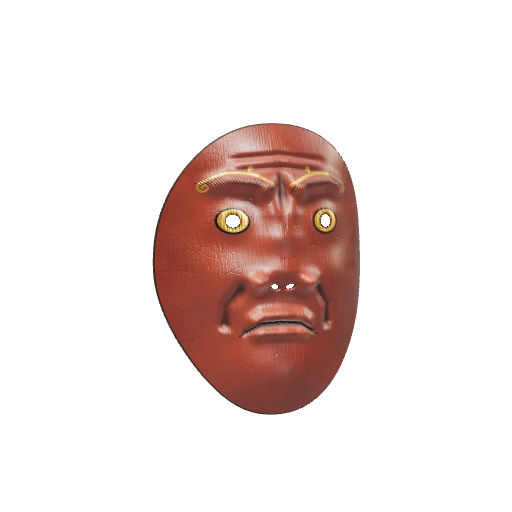
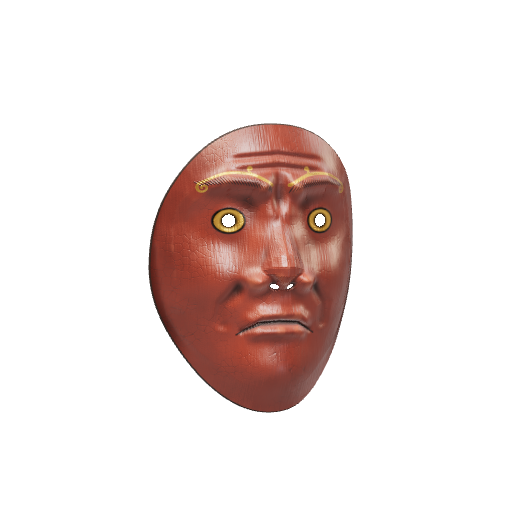
Masks hug the face like a lens; cue under the name panel
- Every mask is carved from the wearer's face surface (MindAR's canonical
  face, smoothed) 3.5 mm out, and never dips inside it, so it sits 2-6 mm
  off the skin instead of floating up to 2.4 cm in front.
- In AR each vertex is skinned to its nearest live landmarks (eyelids
  excluded), so the mask takes your face shape and opens with your jaw.
- The mouth/photo cue sits directly under the name panel.
- tools/fit-check.html shows and measures the fit.

Changed region(s): [[0.3438, 0.25, 0.7188, 0.8125], [0.2812, 0.3438, 0.4375, 0.7812]]

diff --git a/js/face-model.js b/js/face-model.js
@@ -1,0 +1,6 @@
+// The canonical face model MindAR fits to every face (MediaPipe's metric face, in cm),
+// copied from mind-ar-js 1.2.5 src/face-target/face-geometry/face-data.js (MIT; the
+// model itself is MediaPipe's, Apache-2.0): 468 landmark positions and the triangles.
+const positions=[[0,-3.406404,5.979507],[0,-1.126865,7.475604],[0,-2.089024,6.058267],[-0.463928,0.955357,6.633583],[0,-0.46317,7.58658],[0,0.365669,7.24287],[0,2.473255,5.788627],[-4.253081,2.577646,3.279702],[0,4.019042,5.284764],[0,4.885979,5.385258],[0,8.261778,4.481535],[0,-3.706811,5.864924],[0,-3.918301,5.56943],[0,-3.994436,5.219482],[0,-4.5424,5.404754],[0,-4.745577,5.529457],[0,-5.019567,5.601448],[0,-5.365123,5.535441],[0,-6.149624,5.071372],[0,-1.501095,7.112196],[-0.416106,-1.466449,6.447657],[-7.08796,5.434801,0.09962],[-2.628639,2.035898,3.848121],[-3.198363,1.985815,3.796952],[-3.775151,2.039402,3.646194],[-4.465819,2.42295,3.155168],[-2.164289,2.189867,3.851822],[-3.208229,3.223926,4.115822],[-2.673803,3.205337,4.092203],[-3.745193,3.165286,3.972409],[-4.161018,3.059069,3.719554],[-5.062006,1.934418,2.776093],[-2.266659,-7.425768,4.389812],[-4.445859,2.663991,3.173422],[-7.21453,2.263009,0.07315],[-5.799793,2.349546,2.204059],[-2.844939,-0.720868,4.43313],[-0.711452,-3.329355,5.877044],[-0.606033,-3.924562,5.444923],[-1.431615,-3.500953,5.496189],[-1.91491,-3.803146,5.02893],[-1.131043,-3.973937,5.189648],[-1.563548,-4.082763,4.842263],[-2.650112,-5.003649,4.188483],[-0.427049,-1.094134,7.360529],[-0.496396,-0.475659,7.440358],[-5.253307,3.881582,3.363159],[-1.718698,0.974609,4.558359],[-1.608635,-0.942516,5.814193],[-1.651267,-0.610868,5.581319],[-4.765501,-0.701554,3.534632],[-0.478306,0.295766,7.101013],[-3.734964,4.50823,4.550454],[-4.588603,4.302037,4.048484],[-6.279331,6.615427,1.42585],[-1.220941,4.142165,5.106035],[-2.193489,3.100317,4.000575],[-3.102642,-4.352984,4.095905],[-6.719682,-4.788645,-1.745401],[-1.193824,-1.306795,5.737747],[-0.729766,-1.593712,5.833208],[-2.456206,-4.342621,4.283884],[-2.204823,-4.304508,4.162499],[-4.985894,4.802461,3.751977],[-1.592294,-1.257709,5.456949],[-2.644548,4.524654,4.921559],[-2.760292,5.100971,5.01599],[-3.523964,8.005976,3.729163],[-5.599763,5.71547,2.724259],[-3.063932,6.566144,4.529981],[-5.720968,4.254584,2.830852],[-6.374393,4.78559,1.591691],[-0.672728,-3.688016,5.737804],[-1.26256,-3.787691,5.417779],[-1.732553,-3.952767,5.000579],[-1.043625,-1.464973,5.662455],[-2.321234,-4.329069,4.258156],[-2.056846,-4.477671,4.520883],[-2.153084,-4.276322,4.038093],[-0.946874,-1.035249,6.512274],[-1.469132,-4.036351,4.604908],[-1.02434,-3.989851,4.926693],[-0.533422,-3.993222,5.138202],[-0.76972,-6.095394,4.985883],[-0.699606,-5.29185,5.448304],[-0.669687,-4.94977,5.509612],[-0.630947,-4.695101,5.449371],[-0.583218,-4.517982,5.339869],[-1.53717,-4.423206,4.74547],[-1.6156,-4.475942,4.813632],[-1.729053,-4.61868,4.854463],[-1.838624,-4.828746,4.823737],[-2.36825,-3.106237,4.868096],[-7.542244,-1.049282,-2.431321],[0,-1.724003,6.60139],[-1.826614,-4.399531,4.399021],[-1.929558,-4.411831,4.497052],[-0.597442,-2.013686,5.866456],[-1.405627,-1.714196,5.241087],[-0.662449,-1.819321,5.863759],[-2.34234,0.572222,4.294303],[-3.327324,0.104863,4.11386],[-1.726175,-0.919165,5.273355],[-5.133204,7.485602,2.660442],[-4.538641,6.319907,3.683424],[-3.986562,5.109487,4.466315],[-2.169681,-5.440433,4.455874],[-1.395634,5.011963,5.316032],[-1.6195,6.599217,4.921106],[-1.891399,8.236377,4.274997],[-4.195832,2.235205,3.375099],[-5.733342,1.411738,2.431726],[-1.859887,2.355757,3.843181],[-4.988612,3.074654,3.083858],[-1.303263,1.416453,4.831091],[-1.305757,-0.672779,6.415959],[-6.46517,0.937119,1.689873],[-5.258659,0.945811,2.974312],[-4.432338,0.722096,3.522615],[-3.300681,0.861641,3.872784],[-2.430178,1.131492,4.039035],[-1.820731,1.467954,4.224124],[-0.563221,2.307693,5.566789],[-6.338145,-0.529279,1.881175],[-5.587698,3.208071,2.687839],[-0.242624,-1.462857,7.071491],[-1.611251,0.339326,4.895421],[-7.743095,2.364999,-2.005167],[-1.391142,1.851048,4.448999],[-1.785794,-0.978284,4.85047],[-4.670959,2.664461,3.084075],[-1.33397,-0.283761,6.097047],[-7.270895,-2.890917,-2.252455],[-1.856432,2.585245,3.757904],[-0.923388,0.073076,6.671944],[-5.000589,-6.135128,1.892523],[-5.085276,-7.17859,0.714711],[-7.159291,-0.81182,-0.072044],[-5.843051,-5.248023,0.924091],[-6.847258,3.662916,0.724695],[-2.412942,-8.258853,4.119213],[-0.179909,-1.689864,6.573301],[-2.103655,-0.163946,4.566119],[-6.407571,2.236021,1.560843],[-3.670075,2.360153,3.63523],[-3.177186,2.294265,3.775704],[-2.196121,-4.598322,4.479786],[-6.234883,-1.94443,1.663542],[-1.292924,-9.29592,4.094063],[-3.210651,-8.533278,2.802001],[-4.068926,-7.993109,1.925119],[0,6.54539,5.027311],[0,-9.403378,4.264492],[-2.724032,2.315802,3.777151],[-2.28846,2.398891,3.697603],[-1.998311,2.496547,3.689148],[-6.13004,3.399261,2.038516],[-2.28846,2.886504,3.775031],[-2.724032,2.96181,3.871767],[-3.177186,2.964136,3.876973],[-3.670075,2.927714,3.724325],[-4.018389,2.857357,3.482983],[-7.555811,4.106811,-0.991917],[-4.018389,2.483695,3.440898],[0,-2.521945,5.932265],[-1.776217,-2.683946,5.213116],[-1.222237,-1.182444,5.952465],[-0.731493,-2.536683,5.815343],[0,3.271027,5.236015],[-4.135272,-6.996638,2.67197],[-3.311811,-7.660815,3.382963],[-1.313701,-8.639995,4.702456],[-5.940524,-6.223629,-0.631468],[-1.998311,2.743838,3.74403],[-0.901447,1.236992,5.754256],[0,-8.765243,4.891441],[-2.308977,-8.974196,3.60907],[-6.954154,-2.439843,-0.131163],[-1.098819,-4.458788,5.120727],[-1.181124,-4.579996,5.189564],[-1.255818,-4.787901,5.237051],[-1.325085,-5.106507,5.20501],[-1.546388,-5.819392,4.757893],[-1.953754,-4.183892,4.431713],[-2.117802,-4.137093,4.555096],[-2.285339,-4.051196,4.582438],[-2.85016,-3.66572,4.484994],[-5.278538,-2.238942,2.861224],[-0.946709,1.907628,5.196779],[-1.314173,3.104912,4.231404],[-1.78,2.86,3.881555],[-1.84511,-4.09888,4.247264],[-5.436187,-4.030482,2.109852],[-0.766444,3.182131,4.861453],[-1.938616,-6.61441,4.521085],[0,1.059413,6.774605],[-0.516573,1.583572,6.148363],[0,1.728369,6.31675],[-1.246815,0.230297,5.681036],[0,-7.942194,5.181173],[0,-6.991499,5.153478],[-0.997827,-6.930921,4.979576],[-3.288807,-5.382514,3.795752],[-2.311631,-1.566237,4.590085],[-2.68025,-6.111567,4.096152],[-3.832928,-1.537326,4.137731],[-2.96186,-2.274215,4.440943],[-4.386901,-2.683286,3.643886],[-1.217295,-7.834465,4.969286],[-1.542374,-0.136843,5.201008],[-3.878377,-6.041764,3.311079],[-3.084037,-6.809842,3.814195],[-3.747321,-4.503545,3.726453],[-6.094129,-3.205991,1.473482],[-4.588995,-4.728726,2.983221],[-6.583231,-3.941269,0.070268],[-3.49258,-3.19582,4.130198],[-1.255543,0.802341,5.307551],[-1.126122,-0.933602,6.538785],[-1.443109,-1.142774,5.905127],[-0.923043,-0.529042,7.003423],[-1.755386,3.529117,4.327696],[-2.632589,3.713828,4.364629],[-3.388062,3.721976,4.309028],[-4.075766,3.675413,4.076063],[-4.62291,3.474691,3.646321],[-5.171755,2.535753,2.670867],[-7.297331,0.763172,-0.048769],[-4.706828,1.651,3.109532],[-4.071712,1.476821,3.476944],[-3.269817,1.470659,3.731945],[-2.527572,1.617311,3.865444],[-1.970894,1.858505,3.961782],[-1.579543,2.097941,4.084996],[-7.664182,0.673132,-2.435867],[-1.397041,-1.340139,5.630378],[-0.884838,0.65874,6.233232],[-0.767097,-0.968035,7.077932],[-0.460213,-1.334106,6.787447],[-0.748618,-1.067994,6.798303],[-1.236408,-1.585568,5.48049],[-0.387306,-1.40999,6.957705],[-0.319925,-1.607931,6.508676],[-1.639633,2.556298,3.863736],[-1.255645,2.467144,4.2038],[-1.031362,2.382663,4.615849],[-4.253081,2.772296,3.315305],[-4.53,2.91,3.339685],[0.463928,0.955357,6.633583],[4.253081,2.577646,3.279702],[0.416106,-1.466449,6.447657],[7.08796,5.434801,0.09962],[2.628639,2.035898,3.848121],[3.198363,1.985815,3.796952],[3.775151,2.039402,3.646194],[4.465819,2.42295,3.155168],[2.164289,2.189867,3.851822],[3.208229,3.223926,4.115822],[2.673803,3.205337,4.092203],[3.745193,3.165286,3.972409],[4.161018,3.059069,3.719554],[5.062006,1.934418,2.776093],[2.266659,-7.425768,4.389812],[4.445859,2.663991,3.173422],[7.21453,2.263009,0.07315],[5.799793,2.349546,2.204059],[2.844939,-0.720868,4.43313],[0.711452,-3.329355,5.877044],[0.606033,-3.924562,5.444923],[1.431615,-3.500953,5.496189],[1.91491,-3.803146,5.02893],[1.131043,-3.973937,5.189648],[1.563548,-4.082763,4.842263],[2.650112,-5.003649,4.188483],[0.427049,-1.094134,7.360529],[0.496396,-0.475659,7.440358],[5.253307,3.881582,3.363159],[1.718698,0.974609,4.558359],[1.608635,-0.942516,5.814193],[1.651267,-0.610868,5.581319],[4.765501,-0.701554,3.534632],[0.478306,0.295766,7.101013],[3.734964,4.50823,4.550454],[4.588603,4.302037,4.048484],[6.279331,6.615427,1.42585],[1.220941,4.142165,5.106035],[2.193489,3.100317,4.000575],[3.102642,-4.352984,4.095905],[6.719682,-4.788645,-1.745401],[1.193824,-1.306795,5.737747],[0.729766,-1.593712,5.833208],[2.456206,-4.342621,4.283884],[2.204823,-4.304508,4.162499],[4.985894,4.802461,3.751977],[1.592294,-1.257709,5.456949],[2.644548,4.524654,4.921559],[2.760292,5.100971,5.01599],[3.523964,8.005976,3.729163],[5.599763,5.71547,2.724259],[3.063932,6.566144,4.529981],[5.720968,4.254584,2.830852],[6.374393,4.78559,1.591691],[0.672728,-3.688016,5.737804],[1.26256,-3.787691,5.417779],[1.732553,-3.952767,5.000579],[1.043625,-1.464973,5.662455],[2.321234,-4.329069,4.258156],[2.056846,-4.477671,4.520883],[2.153084,-4.276322,4.038093],[0.946874,-1.035249,6.512274],[1.469132,-4.036351,4.604908],[1.02434,-3.989851,4.926693],[0.533422,-3.993222,5.138202],[0.76972,-6.095394,4.985883],[0.699606,-5.29185,5.448304],[0.669687,-4.94977,5.509612],[0.630947,-4.695101,5.449371],[0.583218,-4.517982,5.339869],[1.53717,-4.423206,4.74547],[1.6156,-4.475942,4.813632],[1.729053,-4.61868,4.854463],[1.838624,-4.828746,4.823737],[2.36825,-3.106237,4.868096],[7.542244,-1.049282,-2.431321],[1.826614,-4.399531,4.399021],[1.929558,-4.411831,4.497052],[0.597442,-2.013686,5.866456],[1.405627,-1.714196,5.241087],[0.662449,-1.819321,5.863759],[2.34234,0.572222,4.294303],[3.327324,0.104863,4.11386],[1.726175,-0.919165,5.273355],[5.133204,7.485602,2.660442],[4.538641,6.319907,3.683424],[3.986562,5.109487,4.466315],[2.169681,-5.440433,4.455874],[1.395634,5.011963,5.316032],[1.6195,6.599217,4.921106],[1.891399,8.236377,4.274997],[4.195832,2.235205,3.375099],[5.733342,1.411738,2.431726],[1.859887,2.355757,3.843181],[4.988612,3.074654,3.083858],[1.303263,1.416453,4.831091],[1.305757,-0.672779,6.415959],[6.46517,0.937119,1.689873],[5.258659,0.945811,2.974312],[4.432338,0.722096,3.522615],[3.300681,0.861641,3.872784],[2.430178,1.131492,4.039035],[1.820731,1.467954,4.224124],[0.563221,2.307693,5.566789],[6.338145,-0.529279,1.881175],[5.587698,3.208071,2.687839],[0.242624,-1.462857,7.071491],[1.611251,0.339326,4.895421],[7.743095,2.364999,-2.005167],[1.391142,1.851048,4.448999],[1.785794,-0.978284,4.85047],[4.670959,2.664461,3.084075],[1.33397,-0.283761,6.097047],[7.270895,-2.890917,-2.252455],[1.856432,2.585245,3.757904],[0.923388,0.073076,6.671944],[5.000589,-6.135128,1.892523],[5.085276,-7.17859,0.714711],[7.159291,-0.81182,-0.072044],[5.843051,-5.248023,0.924091],[6.847258,3.662916,0.724695],[2.412942,-8.258853,4.119213],[0.179909,-1.689864,6.573301],[2.103655,-0.163946,4.566119],[6.407571,2.236021,1.560843],[3.670075,2.360153,3.63523],[3.177186,2.294265,3.775704],[2.196121,-4.598322,4.479786],[6.234883,-1.94443,1.663542],[1.292924,-9.29592,4.094063],[3.210651,-8.533278,2.802001],[4.068926,-7.993109,1.925119],[2.724032,2.315802,3.777151],[2.28846,2.398891,3.697603],[1.998311,2.496547,3.689148],[6.13004,3.399261,2.038516],[2.28846,2.886504,3.775031],[2.724032,2.96181,3.871767],[3.177186,2.964136,3.876973],[3.670075,2.927714,3.724325],[4.018389,2.857357,3.482983],[7.555811,4.106811,-0.991917],[4.018389,2.483695,3.440898],[1.776217,-2.683946,5.213116],[1.222237,-1.182444,5.952465],[0.731493,-2.536683,5.815343],[4.135272,-6.996638,2.67197],[3.311811,-7.660815,3.382963],[1.313701,-8.639995,4.702456],[5.940524,-6.223629,-0.631468],[1.998311,2.743838,3.74403],[0.901447,1.236992,5.754256],[2.308977,-8.974196,3.60907],[6.954154,-2.439843,-0.131163],[1.098819,-4.458788,5.120727],[1.181124,-4.579996,5.189564],[1.255818,-4.787901,5.237051],[1.325085,-5.106507,5.20501],[1.546388,-5.819392,4.757893],[1.953754,-4.183892,4.431713],[2.117802,-4.137093,4.555096],[2.285339,-4.051196,4.582438],[2.85016,-3.66572,4.484994],[5.278538,-2.238942,2.861224],[0.946709,1.907628,5.196779],[1.314173,3.104912,4.231404],[1.78,2.86,3.881555],[1.84511,-4.09888,4.247264],[5.436187,-4.030482,2.109852],[0.766444,3.182131,4.861453],[1.938616,-6.61441,4.521085],[0.516573,1.583572,6.148363],[1.246815,0.230297,5.681036],[0.997827,-6.930921,4.979576],[3.288807,-5.382514,3.795752],[2.311631,-1.566237,4.590085],[2.68025,-6.111567,4.096152],[3.832928,-1.537326,4.137731],[2.96186,-2.274215,4.440943],[4.386901,-2.683286,3.643886],[1.217295,-7.834465,4.969286],[1.542374,-0.136843,5.201008],[3.878377,-6.041764,3.311079],[3.084037,-6.809842,3.814195],[3.747321,-4.503545,3.726453],[6.094129,-3.205991,1.473482],[4.588995,-4.728726,2.983221],[6.583231,-3.941269,0.070268],[3.49258,-3.19582,4.130198],[1.255543,0.802341,5.307551],[1.126122,-0.933602,6.538785],[1.443109,-1.142774,5.905127],[0.923043,-0.529042,7.003423],[1.755386,3.529117,4.327696],[2.632589,3.713828,4.364629],[3.388062,3.721976,4.309028],[4.075766,3.675413,4.076063],[4.62291,3.474691,3.646321],[5.171755,2.535753,2.670867],[7.297331,0.763172,-0.048769],[4.706828,1.651,3.109532],[4.071712,1.476821,3.476944],[3.269817,1.470659,3.731945],[2.527572,1.617311,3.865444],[1.970894,1.858505,3.961782],[1.579543,2.097941,4.084996],[7.664182,0.673132,-2.435867],[1.397041,-1.340139,5.630378],[0.884838,0.65874,6.233232],[0.767097,-0.968035,7.077932],[0.460213,-1.334106,6.787447],[0.748618,-1.067994,6.798303],[1.236408,-1.585568,5.48049],[0.387306,-1.40999,6.957705],[0.319925,-1.607931,6.508676],[1.639633,2.556298,3.863736],[1.255645,2.467144,4.2038],[1.031362,2.382663,4.615849],[4.253081,2.772296,3.315305],[4.53,2.91,3.339685]];
+const faces=[173,155,133,246,33,7,382,398,362,263,466,249,308,415,324,78,95,191,356,389,264,127,34,162,368,264,389,139,162,34,267,0,302,37,72,0,11,302,0,11,0,72,349,451,350,120,121,231,452,350,451,232,231,121,267,302,269,37,39,72,303,269,302,73,72,39,357,343,350,128,121,114,277,350,343,47,114,121,350,452,357,121,128,232,453,357,452,233,232,128,299,333,297,69,67,104,332,297,333,103,104,67,175,152,396,175,171,152,377,396,152,148,152,171,381,384,382,154,155,157,398,382,384,173,157,155,280,347,330,50,101,118,348,330,347,119,118,101,269,303,270,39,40,73,304,270,303,74,73,40,9,336,151,9,151,107,337,151,336,108,107,151,344,278,360,115,131,48,279,360,278,49,48,131,262,431,418,32,194,211,424,418,431,204,211,194,304,408,270,74,40,184,409,270,408,185,184,40,272,310,407,42,183,80,415,407,310,191,80,183,322,270,410,92,186,40,409,410,270,185,40,186,347,449,348,118,119,229,450,348,449,230,229,119,434,432,430,214,210,212,422,430,432,202,212,210,313,314,18,83,18,84,17,18,314,17,84,18,307,375,306,77,76,146,291,306,375,61,146,76,259,387,260,29,30,160,388,260,387,161,160,30,286,414,384,56,157,190,398,384,414,173,190,157,418,424,406,194,182,204,335,406,424,106,204,182,367,416,364,138,135,192,434,364,416,214,192,135,391,423,327,165,98,203,358,327,423,129,203,98,298,301,284,68,54,71,251,284,301,21,71,54,4,275,5,4,5,45,281,5,275,51,45,5,254,373,253,24,23,144,374,253,373,145,144,23,320,321,307,90,77,91,375,307,321,146,91,77,280,425,411,50,187,205,427,411,425,207,205,187,421,313,200,201,200,83,18,200,313,18,83,200,335,321,406,106,182,91,405,406,321,181,91,182,405,321,404,181,180,91,320,404,321,90,91,180,17,314,16,17,16,84,315,16,314,85,84,16,425,266,426,205,206,36,423,426,266,203,36,206,369,396,400,140,176,171,377,400,396,148,171,176,391,269,322,165,92,39,270,322,269,40,39,92,417,465,413,193,189,245,464,413,465,244,245,189,257,258,386,27,159,28,385,386,258,158,28,159,260,388,467,30,247,161,466,467,388,246,161,247,248,456,419,3,196,236,399,419,456,174,236,196,333,298,332,104,103,68,284,332,298,54,68,103,285,8,417,55,193,8,168,417,8,168,8,193,340,261,346,111,117,31,448,346,261,228,31,117,285,417,441,55,221,193,413,441,417,189,193,221,327,460,326,98,97,240,328,326,460,99,240,97,277,355,329,47,100,126,371,329,355,142,126,100,309,392,438,79,218,166,439,438,392,219,166,218,381,382,256,154,26,155,341,256,382,112,155,26,360,279,420,131,198,49,429,420,279,209,49,198,365,364,379,136,150,135,394,379,364,169,135,150,355,277,437,126,217,47,343,437,277,114,47,217,443,444,282,223,52,224,283,282,444,53,224,52,281,275,363,51,134,45,440,363,275,220,45,134,431,262,395,211,170,32,369,395,262,140,32,170,337,299,338,108,109,69,297,338,299,67,69,109,335,273,321,106,91,43,375,321,273,146,43,91,348,450,349,119,120,230,451,349,450,231,230,120,467,359,342,247,113,130,446,342,359,226,130,113,282,283,334,52,105,53,293,334,283,63,53,105,250,458,462,20,242,238,461,462,458,241,238,242,276,353,300,46,70,124,383,300,353,156,124,70,325,292,324,96,95,62,308,324,292,78,62,95,283,276,293,53,63,46,300,293,276,70,46,63,447,264,345,227,116,34,372,345,264,143,34,116,352,345,346,123,117,116,340,346,345,111,116,117,1,19,274,1,44,19,354,274,19,125,19,44,248,281,456,3,236,51,363,456,281,134,51,236,425,426,427,205,207,206,436,427,426,216,206,207,380,381,252,153,22,154,256,252,381,26,154,22,391,393,269,165,39,167,267,269,393,37,167,39,199,428,200,199,200,208,421,200,428,201,208,200,330,329,266,101,36,100,371,266,329,142,100,36,422,432,273,202,43,212,287,273,432,57,212,43,290,250,328,60,99,20,462,328,250,242,20,99,258,286,385,28,158,56,384,385,286,157,56,158,342,446,353,113,124,226,265,353,446,35,226,124,257,386,259,27,29,159,387,259,386,160,159,29,430,422,431,210,211,202,424,431,422,204,202,211,445,342,276,225,46,113,353,276,342,124,113,46,424,422,335,204,106,202,273,335,422,43,202,106,306,292,307,76,77,62,325,307,292,96,62,77,366,447,352,137,123,227,345,352,447,116,227,123,302,268,303,72,73,38,271,303,268,41,38,73,371,358,266,142,36,129,423,266,358,203,129,36,327,294,460,98,240,64,455,460,294,235,64,240,294,331,278,64,48,102,279,278,331,49,102,48,303,271,304,73,74,41,272,304,271,42,41,74,427,436,434,207,214,216,432,434,436,212,216,214,304,272,408,74,184,42,407,408,272,183,42,184,394,430,395,169,170,210,431,395,430,211,210,170,395,369,378,170,149,140,400,378,369,176,140,149,296,334,299,66,69,105,333,299,334,104,105,69,417,168,351,193,122,168,6,351,168,6,168,122,280,411,352,50,123,187,376,352,411,147,187,123,319,320,325,89,96,90,307,325,320,77,90,96,285,295,336,55,107,65,296,336,295,66,65,107,404,320,403,180,179,90,319,403,320,89,90,179,330,348,329,101,100,119,349,329,348,120,119,100,334,293,333,105,104,63,298,333,293,68,63,104,323,454,366,93,137,234,447,366,454,227,234,137,16,315,15,16,15,85,316,15,315,86,85,15,429,279,358,209,129,49,331,358,279,102,49,129,15,316,14,15,14,86,317,14,316,87,86,14,8,285,9,8,9,55,336,9,285,107,55,9,329,349,277,100,47,120,350,277,349,121,120,47,252,253,380,22,153,23,374,380,253,145,23,153,402,403,318,178,88,179,319,318,403,89,179,88,351,6,419,122,196,6,197,419,6,197,6,196,324,318,325,95,96,88,319,325,318,89,88,96,397,367,365,172,136,138,364,365,367,135,138,136,288,435,397,58,172,215,367,397,435,138,215,172,438,439,344,218,115,219,278,344,439,48,219,115,271,311,272,41,42,81,310,272,311,80,81,42,5,281,195,5,195,51,248,195,281,3,51,195,273,287,375,43,146,57,291,375,287,61,57,146,396,428,175,171,175,208,199,175,428,199,208,175,268,312,271,38,41,82,311,271,312,81,82,41,444,445,283,224,53,225,276,283,445,46,225,53,254,339,373,24,144,110,390,373,339,163,110,144,295,282,296,65,66,52,334,296,282,105,52,66,346,448,347,117,118,228,449,347,448,229,228,118,454,356,447,234,227,127,264,447,356,34,127,227,336,296,337,107,108,66,299,337,296,69,66,108,151,337,10,151,10,108,338,10,337,109,108,10,278,439,294,48,64,219,455,294,439,235,219,64,407,415,292,183,62,191,308,292,415,78,191,62,358,371,429,129,209,142,355,429,371,126,142,209,345,372,340,116,111,143,265,340,372,35,143,111,388,390,466,161,246,163,249,466,390,7,163,246,352,346,280,123,50,117,347,280,346,118,117,50,295,442,282,65,52,222,443,282,442,223,222,52,19,94,354,19,125,94,370,354,94,141,94,125,295,285,442,65,222,55,441,442,285,221,55,222,419,197,248,196,3,197,195,248,197,195,197,3,359,263,255,130,25,33,249,255,263,7,33,25,275,274,440,45,220,44,457,440,274,237,44,220,300,383,301,70,71,156,368,301,383,139,156,71,417,351,465,193,245,122,412,465,351,188,122,245,466,263,467,246,247,33,359,467,263,130,33,247,389,251,368,162,139,21,301,368,251,71,21,139,374,386,380,145,153,159,385,380,386,158,159,153,379,394,378,150,149,169,395,378,394,170,169,149,351,419,412,122,188,196,399,412,419,174,196,188,426,322,436,206,216,92,410,436,322,186,92,216,387,373,388,160,161,144,390,388,373,163,144,161,393,326,164,167,164,97,2,164,326,2,97,164,354,370,461,125,241,141,462,461,370,242,141,241,0,267,164,0,164,37,393,164,267,167,37,164,11,12,302,11,72,12,268,302,12,38,12,72,386,374,387,159,160,145,373,387,374,144,145,160,12,13,268,12,38,13,312,268,13,82,13,38,293,300,298,63,68,70,301,298,300,71,70,68,340,265,261,111,31,35,446,261,265,226,35,31,380,385,381,153,154,158,384,381,385,157,158,154,280,330,425,50,205,101,266,425,330,36,101,205,423,391,426,203,206,165,322,426,391,92,165,206,429,355,420,209,198,126,437,420,355,217,126,198,391,327,393,165,167,98,326,393,327,97,98,167,457,438,440,237,220,218,344,440,438,115,218,220,382,362,341,155,112,133,463,341,362,243,133,112,457,461,459,237,239,241,458,459,461,238,241,239,434,430,364,214,135,210,394,364,430,169,210,135,414,463,398,190,173,243,362,398,463,133,243,173,262,428,369,32,140,208,396,369,428,171,208,140,457,274,461,237,241,44,354,461,274,125,44,241,316,403,317,86,87,179,402,317,403,178,179,87,315,404,316,85,86,180,403,316,404,179,180,86,314,405,315,84,85,181,404,315,405,180,181,85,313,406,314,83,84,182,405,314,406,181,182,84,418,406,421,194,201,182,313,421,406,83,182,201,366,401,323,137,93,177,361,323,401,132,177,93,408,407,306,184,76,183,292,306,407,62,183,76,408,306,409,184,185,76,291,409,306,61,76,185,410,409,287,186,57,185,291,287,409,61,185,57,436,410,432,216,212,186,287,432,410,57,186,212,434,416,427,214,207,192,411,427,416,187,192,207,264,368,372,34,143,139,383,372,368,156,139,143,457,459,438,237,218,239,309,438,459,79,239,218,352,376,366,123,137,147,401,366,376,177,147,137,4,1,275,4,45,1,274,275,1,44,1,45,428,262,421,208,201,32,418,421,262,194,32,201,327,358,294,98,64,129,331,294,358,102,129,64,367,435,416,138,192,215,433,416,435,213,215,192,455,439,289,235,59,219,392,289,439,166,219,59,328,462,326,99,97,242,370,326,462,141,242,97,326,370,2,97,2,141,94,2,370,94,141,2,460,455,305,240,75,235,289,305,455,59,235,75,448,339,449,228,229,110,254,449,339,24,110,229,261,446,255,31,25,226,359,255,446,130,226,25,449,254,450,229,230,24,253,450,254,23,24,230,450,253,451,230,231,23,252,451,253,22,23,231,451,252,452,231,232,22,256,452,252,26,22,232,256,341,452,26,232,112,453,452,341,233,112,232,413,464,414,189,190,244,463,414,464,243,244,190,441,413,286,221,56,189,414,286,413,190,189,56,441,286,442,221,222,56,258,442,286,28,56,222,442,258,443,222,223,28,257,443,258,27,28,223,444,443,259,224,29,223,257,259,443,27,223,29,259,260,444,29,224,30,445,444,260,225,30,224,260,467,445,30,225,247,342,445,467,113,247,225,250,309,458,20,238,79,459,458,309,239,79,238,290,305,392,60,166,75,289,392,305,59,75,166,460,305,328,240,99,75,290,328,305,60,75,99,376,433,401,147,177,213,435,401,433,215,213,177,250,290,309,20,79,60,392,309,290,166,60,79,411,416,376,187,147,192,433,376,416,213,192,147,341,463,453,112,233,243,464,453,463,244,243,233,453,464,357,233,128,244,465,357,464,245,244,128,412,343,465,188,245,114,357,465,343,128,114,245,437,343,399,217,174,114,412,399,343,188,114,174,363,440,360,134,131,220,344,360,440,115,220,131,456,420,399,236,174,198,437,399,420,217,198,174,456,363,420,236,198,134,360,420,363,131,134,198,361,401,288,132,58,177,435,288,401,215,177,58,353,265,383,124,156,35,372,383,265,143,35,156,255,249,339,25,110,7,390,339,249,163,7,110,261,255,448,31,228,25,339,448,255,110,25,228,14,317,13,14,13,87,312,13,317,82,87,13,317,402,312,87,82,178,311,312,402,81,178,82,402,318,311,178,81,88,310,311,318,80,88,81,318,324,310,88,80,95,415,310,324,191,95,80];
+export { positions, faces };

diff --git a/js/face-fit.js b/js/face-fit.js
@@ -1,0 +1,155 @@
+// Making a mask hug the face the way a Snapchat lens does.
+//
+// 1. Fit: the shell every mask is carved from follows the real face surface (MindAR's
+//    canonical face, smoothed so it bridges the eye sockets and the nose) a few
+//    millimetres in front of it, instead of a generic egg.
+// 2. Follow: every vertex of a built mask is tied to its nearest face landmarks. Each
+//    frame the landmarks' live positions (your face's own shape, jaw, cheeks) move the
+//    vertices with them, so the mask stretches with your face and opens with your mouth.
+
+import { positions as LM, faces } from './face-model.js';
+
+// ------------------------------------------------------------------ 1 · the face surface
+const SPAN = 22, N = 176, CELL = SPAN / N; // a depth map of the face over x, y in [-11, 11] cm
+function rasterise(){
+  const z = new Float32Array(N * N).fill(-Infinity);
+  const toG = (v) => (v + SPAN / 2) / CELL - 0.5;
+  for (let f = 0; f < faces.length; f += 3){
+    const A = LM[faces[f]], B = LM[faces[f + 1]], C = LM[faces[f + 2]];
+    const ax = toG(A[0]), ay = toG(A[1]), bx = toG(B[0]), by = toG(B[1]), cx = toG(C[0]), cy = toG(C[1]);
+    const d = (by - cy) * (ax - cx) + (cx - bx) * (ay - cy);
+    if (Math.abs(d) < 1e-9) continue;
+    const x0 = Math.max(0, Math.floor(Math.min(ax, bx, cx))), x1 = Math.min(N - 1, Math.ceil(Math.max(ax, bx, cx)));
+    const y0 = Math.max(0, Math.floor(Math.min(ay, by, cy))), y1 = Math.min(N - 1, Math.ceil(Math.max(ay, by, cy)));
+    for (let j = y0; j <= y1; j++) for (let i = x0; i <= x1; i++){
+      const l1 = ((by - cy) * (i - cx) + (cx - bx) * (j - cy)) / d, l2 = ((cy - ay) * (i - cx) + (ax - cx) * (j - cy)) / d, l3 = 1 - l1 - l2;
+      if (l1 < -1e-4 || l2 < -1e-4 || l3 < -1e-4) continue;
+      const zz = l1 * A[2] + l2 * B[2] + l3 * C[2];
+      if (zz > z[j * N + i]) z[j * N + i] = zz;
+    }
+  }
+  // beyond the face (hairline, under the chin, past the cheeks) continue the surface outward
+  const known = new Uint8Array(N * N);
+  for (let k = 0; k < N * N; k++) known[k] = z[k] > -Infinity ? 1 : 0;
+  for (let pass = 0; pass < N; pass++){
+    let changed = 0;
+    const next = z.slice(), nk = known.slice();
+    for (let j = 0; j < N; j++) for (let i = 0; i < N; i++){
+      const k = j * N + i;
+      if (known[k]) continue;
+      let s = 0, n = 0;
+      for (const [di, dj] of [[1, 0], [-1, 0], [0, 1], [0, -1]]){
+        const ii = i + di, jj = j + dj;
+        if (ii < 0 || jj < 0 || ii >= N || jj >= N) continue;
+        const kk = jj * N + ii;
+        if (known[kk]){ s += z[kk]; n++; }
+      }
+      // fall away gently as we leave the face, like the sides of a head
+      if (n){ next[k] = s / n - 0.06; nk[k] = 1; changed++; }
+    }
+    z.set(next); known.set(nk);
+    if (!changed) break;
+  }
+  return z;
+}
+function blur(src, r){
+  let a = Float32Array.from(src), b = new Float32Array(N * N);
+  for (let pass = 0; pass < 3; pass++){
+    for (let j = 0; j < N; j++) for (let i = 0; i < N; i++){
+      let s = 0; for (let d = -r; d <= r; d++) s += a[j * N + Math.min(N - 1, Math.max(0, i + d))];
+      b[j * N + i] = s / (2 * r + 1);
+    }
+    for (let j = 0; j < N; j++) for (let i = 0; i < N; i++){
+      let s = 0; for (let d = -r; d <= r; d++) s += b[Math.min(N - 1, Math.max(0, j + d)) * N + i];
+      a[j * N + i] = s / (2 * r + 1);
+    }
+  }
+  return a;
+}
+const RAW = rasterise();
+// Smoothed by about 1.5 cm: the shell bridges the eyes and the nose (the carving adds
+// its own nose), but follows the forehead, cheeks, jaw and chin.
+const SMOOTH = blur(RAW, 6), FLAT = blur(RAW, 16);
+function sample(arr, x, y){
+  const u = Math.min(N - 1.001, Math.max(0, (x + SPAN / 2) / CELL - 0.5)), v = Math.min(N - 1.001, Math.max(0, (y + SPAN / 2) / CELL - 0.5));
+  const i = u | 0, j = v | 0, fx = u - i, fy = v - j, k = j * N + i;
+  return (arr[k] * (1 - fx) + arr[k + 1] * fx) * (1 - fy) + (arr[k + N] * (1 - fx) + arr[k + N + 1] * fx) * fy;
+}
+export const faceZ = (x, y) => sample(RAW, x, y);
+export const faceShell = (x, y) => sample(SMOOTH, x, y);
+// The shell masks are carved from: 3.5 mm in front of the smoothed face. Over the nose it
+// uses a much flatter version, because each mask carves its own nose on top.
+export const GAP = 0.35;
+export function shellZ(x, y){
+  const wn = Math.exp(-(x * x) / (2 * 1.4 * 1.4) - ((y - 0.6) ** 2) / (2 * 2.6 * 2.6));
+  return sample(SMOOTH, x, y) * (1 - wn) + sample(FLAT, x, y) * wn + GAP;
+}
+
+// ------------------------------------------------------------------ 2 · following the face
+// Eyelid landmarks are left out: a blink should not squeeze the mask.
+const EYELIDS = new Set([33, 7, 163, 144, 145, 153, 154, 155, 133, 173, 157, 158, 159, 160, 161, 246,
+  263, 249, 390, 373, 374, 380, 381, 382, 362, 398, 384, 385, 386, 387, 388, 466,
+  130, 25, 110, 24, 23, 22, 26, 112, 243, 190, 56, 28, 27, 29, 30, 247,
+  359, 255, 339, 254, 253, 252, 256, 341, 463, 414, 286, 258, 257, 259, 260, 467]);
+const USE = LM.map((_, i) => i).filter((i) => !EYELIDS.has(i));
+const K = 6, SIGMA = 1.1;
+
+// Ties every vertex of every mesh in the mask to its K nearest landmarks.
+export function bindToFace(group){
+  if (group.userData.skin) return;
+  // bake every part's placement (ears inside an ear group, teeth, horns) into its own
+  // geometry, so all vertices live in mask space before they are tied to the face
+  group.updateMatrixWorld(true);
+  const inv = group.matrixWorld.clone().invert();
+  const meshes = [];
+  group.traverse((o) => { if (o.isMesh) meshes.push([o, inv.clone().multiply(o.matrixWorld)]); });
+  for (const [o, m] of meshes){ o.geometry = o.geometry.clone(); o.geometry.applyMatrix4(m); }
+  group.traverse((o) => { if (o !== group){ o.position.set(0, 0, 0); o.rotation.set(0, 0, 0); o.scale.set(1, 1, 1); o.updateMatrix(); } });
+  const binds = [];
+  for (const [o] of meshes){
+    const pos = o.geometry.attributes.position, n = pos.count;
+    const base = Float32Array.from(pos.array);
+    const idx = new Uint16Array(n * K), w = new Float32Array(n * K);
+    const bi = new Int32Array(K), bd = new Float32Array(K);
+    for (let v = 0; v < n; v++){
+      const x = base[v * 3], y = base[v * 3 + 1], z = base[v * 3 + 2];
+      bd.fill(Infinity);
+      for (const l of USE){
+        const L = LM[l], d = (L[0] - x) ** 2 + (L[1] - y) ** 2 + (L[2] - z) ** 2;
+        if (d >= bd[K - 1]) continue;
+        let k = K - 1;
+        while (k > 0 && bd[k - 1] > d){ bd[k] = bd[k - 1]; bi[k] = bi[k - 1]; k--; }
+        bd[k] = d; bi[k] = l;
+      }
+      let s = 0;
+      for (let k = 0; k < K; k++){ const ww = Math.exp(-(bd[k] - bd[0]) / (2 * SIGMA * SIGMA)); w[v * K + k] = ww; s += ww; idx[v * K + k] = bi[k]; }
+      for (let k = 0; k < K; k++) w[v * K + k] /= s;
+    }
+    pos.setUsage(35048); // DYNAMIC_DRAW
+    binds.push({ pos, base, idx, w, n });
+  }
+  group.userData.skin = binds;
+}
+
+// Moves the mask with the live landmarks (MindAR's metricLandmarks, in the same cm space).
+const delta = new Float32Array(LM.length * 3);
+export function followFace(group, live){
+  const binds = group.userData.skin;
+  if (!binds || !live) return;
+  for (let l = 0; l < LM.length; l++){
+    const p = live[l];
+    delta[l * 3] = p[0] - LM[l][0]; delta[l * 3 + 1] = p[1] - LM[l][1]; delta[l * 3 + 2] = p[2] - LM[l][2];
+  }
+  for (const b of binds){
+    const a = b.pos.array, base = b.base, idx = b.idx, w = b.w;
+    for (let v = 0, o = 0; v < b.n; v++, o += 3){
+      let dx = 0, dy = 0, dz = 0;
+      for (let k = 0, q = v * K; k < K; k++, q++){
+        const l = idx[q] * 3, ww = w[q];
+        dx += delta[l] * ww; dy += delta[l + 1] * ww; dz += delta[l + 2] * ww;
+      }
+      a[o] = base[o] + dx; a[o + 1] = base[o + 1] + dy; a[o + 2] = base[o + 2] + dz;
+    }
+    b.pos.needsUpdate = true;
+  }
+}

diff --git a/tools/fit-check.html b/tools/fit-check.html
@@ -1,0 +1,68 @@
+<!doctype html>
+<html lang="en"><head><meta charset="utf-8"><meta name="viewport" content="width=device-width,initial-scale=1">
+<title>Noh Masks — fit check</title>
+<style>body{margin:0;padding:12px;background:#ecdfc6;color:#3b2a1c;font:13px/1.5 ui-monospace,Consolas,monospace} canvas{display:block;max-width:100%;background:#2b1e13}</style>
+<script type="importmap">
+{ "imports": { "three": "https://cdn.jsdelivr.net/npm/three@0.160.0/build/three.module.js",
+               "three/addons/": "https://cdn.jsdelivr.net/npm/three@0.160.0/examples/jsm/" } }
+</script></head>
+<body>
+<p>How a mask sits on MindAR's canonical face. Panels: the bare face · the mask on it (side) · mask on it (front) · the same with the jaw dropped 1.6 cm and the face 6% wider, through the landmark skinning used in AR. <code>?id=hannya</code></p>
+<div id="log"></div>
+<script type="module">
+import * as THREE from 'three';
+import { DEFS } from '../js/masks.js';
+import { buildMask } from '../js/build.js';
+import { setupLook } from '../js/look.js';
+import { bindToFace, followFace } from '../js/face-fit.js';
+import { positions as LM, faces } from '../js/face-model.js';
+
+const id = new URLSearchParams(location.search).get('id') || 'koomote';
+const W = 400, H = 480;
+const r = new THREE.WebGLRenderer({ antialias: true, preserveDrawingBuffer: true });
+r.setSize(W * 4, H); r.setScissorTest(true);
+document.body.appendChild(r.domElement);
+const scene = new THREE.Scene();
+setupLook(r, scene);
+const cam = new THREE.PerspectiveCamera(30, W / H, 1, 400);
+cam.position.set(0, 0, 50);
+
+function faceMesh(pts){
+  const g = new THREE.BufferGeometry();
+  g.setAttribute('position', new THREE.Float32BufferAttribute(pts.flat(), 3));
+  g.setIndex(faces); g.computeVertexNormals();
+  return new THREE.Mesh(g, new THREE.MeshStandardMaterial({ color: '#d9a98a', roughness: 0.6, side: THREE.DoubleSide }));
+}
+const face = faceMesh(LM);
+const mask = buildMask(DEFS[id]);
+bindToFace(mask);
+const rig = new THREE.Group(); scene.add(rig);
+rig.add(face);
+
+function panel(i, yaw, withMask){
+  rig.rotation.set(0.05, yaw, 0);
+  if (withMask) rig.add(mask); else rig.remove(mask);
+  r.setViewport(i * W, 0, W, H); r.setScissor(i * W, 0, W, H);
+  r.render(scene, cam);
+}
+panel(0, 0.9, false);
+panel(1, 1.15, true);
+panel(2, 0.25, true);
+// a wider face with the jaw dropped
+const live = LM.map(([x, y, z]) => { const k = Math.min(1, Math.max(0, (-3.9 - y) / 1.2)); return [x * 1.06, y - 1.6 * k, z]; });
+rig.remove(face);
+const face2 = faceMesh(live); rig.add(face2);
+followFace(mask, live);
+panel(3, 0.35, true);
+// how far the mask's front sits from the face, straight ahead (cm)
+const ray = new THREE.Raycaster(), gaps = [];
+rig.rotation.set(0, 0, 0); rig.remove(face2); rig.add(face); followFace(mask, LM); rig.updateMatrixWorld(true);
+const front = mask.getObjectByName('front');
+for (const [x, y] of [[0, 6], [3, 5.5], [3.2, 1], [4.6, 0], [6.2, 1], [5, -4], [2.5, -7], [0, -8.8]]){
+  ray.set(new THREE.Vector3(x, y, 40), new THREE.Vector3(0, 0, -1));
+  const hm = ray.intersectObject(front)[0], hf = ray.intersectObject(face)[0];
+  if (hm && hf) gaps.push(`(${x},${y}) ${(hm.point.z - hf.point.z).toFixed(2)}`);
+}
+document.getElementById('log').textContent = `${id}: gap mask→face, cm: ` + gaps.join('  ');
+window.__done = true;
+</script></body></html>

diff --git a/js/sculpt.js b/js/sculpt.js
@@ -7,6 +7,8 @@
 // so every mask fits the same face, and the texture is a flat projection of the
 // same x/y, so paint lines up with the carving.
 
+import { shellZ, faceZ } from './face-fit.js';
+
 export const SPAN = 22;          // the textures cover x and y from -11 to 11 cm
 export const EYE = { x: 3.18, y: 2.63 };
 
@@ -116,20 +118,17 @@ function compile(f){
   };
 }
 
-// The shared shell every mask is carved from: rounder across than down, rolling
-// back toward the ears and toward the hairline and chin.
-export function baseZ(x, y){
-  const yy = y + 1, ey = Math.max(0, Math.abs(yy) - 7);
-  const zf = 6.15 - 0.0105 * yy * yy - 0.06 * ey * ey;
-  const s = Math.sqrt(Math.max(0, 1 - (x / 8.6) ** 2));
-  return -4 + (zf + 4) * s;
-}
+// The shared shell every mask is carved from: the wearer's face surface (MindAR's
+// canonical face, smoothed), a few millimetres in front of it, so the mask fits tight.
+export const baseZ = shellZ;
 
 export function heightField(features){
   const fns = features.map(compile);
   const n = fns.length;
   const feat = (x, y) => { let d = 0; for (let i = 0; i < n; i++) d += fns[i](x, y); return d; };
-  return { feat, h: (x, y) => baseZ(x, y) + feat(x, y) };
+  // never inside the wearer's face: a smooth max with the face surface + 1.5 mm
+  const h = (x, y) => smax(baseZ(x, y) + feat(x, y), faceZ(x, y) + 0.15, 0.3);
+  return { feat, h };
 }
 
 // ------------------------------------------------------------------ outline
@@ -279,4 +278,8 @@ export function drawStrokes(g, strokes, color, widthScale = 1, alpha = 1){
       }
     }
   }
+}
+function smax(a, b, k){
+  const t = clamp01(0.5 + 0.5 * (a - b) / k);
+  return b + (a - b) * t + k * t * (1 - t);
 }

diff --git a/js/masks.js b/js/masks.js
@@ -327,16 +327,16 @@ const HANNYA = {
     const tooth = new THREE.CapsuleGeometry(0.24, 0.35, 4, 10);
     for (let i = 0; i < 6; i++){
       const x = -1.75 + i * 0.7, y = -3.55;
-      const m = new THREE.Mesh(tooth, ivory); m.position.set(x, y, H.h(x, -3.3) - 0.35); m.scale.set(1.1, 1, 0.8); group.add(m);
+      const m = new THREE.Mesh(tooth, ivory); m.position.set(x, y, H.h(x, y) + 0.05); m.scale.set(1.1, 1, 0.8); group.add(m);
     }
     for (let i = 0; i < 5; i++){
       const x = -1.4 + i * 0.7, y = -5.55;
-      const m = new THREE.Mesh(tooth, ivory); m.position.set(x, y, H.h(x, -5.85) - 0.4); m.scale.set(1.05, 0.85, 0.8); group.add(m);
+      const m = new THREE.Mesh(tooth, ivory); m.position.set(x, y, H.h(x, y) + 0.05); m.scale.set(1.05, 0.85, 0.8); group.add(m);
     }
     const fang = new THREE.ConeGeometry(0.3, 1.55, 16);
     for (const s of [1, -1]){
-      const up = new THREE.Mesh(fang, ivory); up.position.set(s * 2.45, -4.05, H.h(s * 2.45, -3.4) - 0.3); up.rotation.set(0.2, 0, Math.PI - s * 0.08); group.add(up);
-      const lo = new THREE.Mesh(fang, ivory); lo.scale.set(0.9, 0.8, 0.9); lo.position.set(s * 2.05, -5.0, H.h(s * 2.05, -5.8) - 0.3); lo.rotation.set(-0.2, 0, s * 0.1); group.add(lo);
+      const up = new THREE.Mesh(fang, ivory); up.position.set(s * 2.45, -4.05, H.h(s * 2.45, -4.05) + 0.1); up.rotation.set(0.2, 0, Math.PI - s * 0.08); group.add(up);
+      const lo = new THREE.Mesh(fang, ivory); lo.scale.set(0.9, 0.8, 0.9); lo.position.set(s * 2.05, -5.0, H.h(s * 2.05, -5.0) + 0.1); lo.rotation.set(-0.2, 0, s * 0.1); group.add(lo);
     }
   },
   mouth: [0, -4.6, 6.3],

diff --git a/js/stage.js b/js/stage.js
@@ -12,6 +12,7 @@ import { buildMask, disposeMask } from './build.js';
 import { setupLook, roomLight } from './look.js';
 import { Effects } from './effects.js';
 import { BY_ID } from './data.js';
+import { bindToFace, followFace } from './face-fit.js';
 
 const CACHE_MAX = 3; // built masks kept on the GPU
 // Phones carve with 768 px textures: about half the time of 1024, and still sharp at arm's length.
@@ -28,6 +29,7 @@ const R = {
 function ensureMask(id){
   if (R.cache.has(id)){ const m = R.cache.get(id); R.cache.delete(id); R.cache.set(id, m); return m; }
   const m = buildMask(DEFS[id], { maxAniso: Math.min(8, R.renderer.capabilities.getMaxAnisotropy()), size: TEX_SIZE });
+  if (R.mode === 'camera') bindToFace(m); // tie every vertex to the face landmarks
   R.cache.set(id, m);
   while (R.cache.size > CACHE_MAX){
     const [old, g] = R.cache.entries().next().value;
@@ -111,7 +113,12 @@ function readFace(){
   const has = !!est;
   if (has !== R.hasFace){ R.hasFace = has; R.onFace?.(has); }
   R.face.visible = has;
-  if (has){ R.face.matrix.set(...est.faceMatrix); R.face.matrixWorldNeedsUpdate = true; }
+  if (has){
+    R.face.matrix.set(...est.faceMatrix); R.face.matrixWorldNeedsUpdate = true;
+    // stretch the mask with the live face: its shape, cheeks, jaw
+    if (R.current) followFace(R.current, est.metricLandmarks);
+    if (R.swap?.old) followFace(R.swap.old, est.metricLandmarks);
+  }
   const cats = est?.blendshapes?.categories;
   if (cats){
     let jaw = 0, pk = 0;

diff --git a/index.html b/index.html
@@ -87,10 +87,13 @@
 <!-- ============ 3 · THE MASK ROOM ============ -->
 <div id="hud" class="overlay">
   <div class="hud-top">
+    <div class="hud-left">
     <div class="plate namecard" id="namecard">
       <span class="corner tl" id="ncFig">Fig. 01</span><span class="corner tr" id="ncRole"></span>
       <div class="nc-main"><b id="ncName"></b><span class="jp" id="ncJp"></span></div>
       <div class="nc-blurb" id="ncBlurb"></div>
+    </div>
+    <div class="hint" id="hint" role="status" aria-live="polite"></div>
     </div>
     <div class="iconcol">
       <button class="iconbtn" id="closeBtn" aria-label="Back to the card"><svg viewBox="0 0 24 24" width="22" height="22" aria-hidden="true"><path d="M6 6l12 12M18 6L6 18" stroke="currentColor" stroke-width="2.6" stroke-linecap="round"/></svg></button>
@@ -98,7 +101,6 @@
       <button class="iconbtn" id="soundBtn" aria-label="Sound"><svg viewBox="0 0 24 24" width="22" height="22" aria-hidden="true"><path d="M4 9h4l5-4v14l-5-4H4z" fill="currentColor"/><path id="soundWaves" d="M16 8.5a5 5 0 0 1 0 7M18.5 6a8.5 8.5 0 0 1 0 12" fill="none" stroke="currentColor" stroke-width="2" stroke-linecap="round"/></svg></button>
     </div>
   </div>
-  <div class="hint" id="hint" role="status" aria-live="polite"></div>
 
   <div class="faceguide" id="faceGuide">
     <svg viewBox="0 0 200 260" aria-hidden="true"><ellipse cx="100" cy="130" rx="82" ry="112" fill="none" stroke="#fff8ec" stroke-width="5" stroke-dasharray="14 12"/></svg>

diff --git a/css/app.css b/css/app.css
@@ -157,5 +157,7 @@ a.btn{display:inline-flex;align-items:center;justify-content:center;text-decorat
 .welcome p.small{font-size:13px;color:var(--anatomy-muted);max-width:36ch}
 /* the mouth / photo cues sit at the top, just under the name card */
 #hud{justify-content:flex-start}
-#hud > .hint{align-self:center;margin-top:8px;font-size:15px;padding:9px 16px;max-width:min(560px,100%);box-shadow:0 2px 10px #0006}
+.hud-left{flex:1;min-width:0;display:flex;flex-direction:column;gap:6px}
+.hud-left .namecard{flex:none}
+.hud-left .hint{align-self:stretch;border-radius:10px;font-size:14.5px;padding:8px 12px;text-align:left;box-shadow:0 2px 8px #0005}
 .hud-bottom{margin-top:auto}

diff --git a/README.md b/README.md
@@ -17,7 +17,7 @@ surprise, then take a photo. Made for ages 8–14.
 3. **Welcome.** Once the card is found, a short card explains Noh and the activity. Tapping **Allow camera & start**
    starts the selfie camera. This is when the browser asks for camera permission.
 4. **Wear.** MindAR *face* tracking (MediaPipe Face Landmarker) follows your face. The
-   mask is pinned to the whole-face pose (MindAR's faceMatrix, the same fit its face mesh uses), so it stays put when you talk or smile.
+   mask is pinned to the whole-face pose (MindAR's faceMatrix) and then *skinned* to the live face landmarks, like a Snapchat lens: it fits your face shape, sits 2–6 mm off the skin, and its mouth and chin move with yours.
    The masks are carved in MindAR's own canonical face units (centimetres), so the eye
    holes sit over your real eyes. Pick a mask from the tray at the bottom.
 5. **Open your mouth.** The tracker's `jawOpen` blendshape sets off each mask's effect. The cue telling you what to do sits at the top of the screen.
@@ -97,6 +97,8 @@ in the same sepia theme as Ramen_Builder:
 | `js/sound.js` | Kotsuzumi drum, hyoshigi clappers and shutter, made with WebAudio. |
 | `js/data.js` | Names, kanji, roles, kid-friendly blurbs and facts. |
 | `tools/mask-sheet.html` | Renders every mask. `?id=hannya&yaw=0.5` shows one up close. `?save=1` rewrites `assets/thumbs/`. |
+| `tools/fit-check.html` | Shows a mask on MindAR's face model (side, front, and with the jaw dropped through the skinning) and prints how far it sits from the face. |
+| `js/face-fit.js` / `js/face-model.js` | The face-fitted shell every mask is carved from, and the skinning that moves each vertex with its nearest face landmarks. |
 | `tools/make-target.html` | Redraws `target.png` from the thumbnails and compiles `targets.mind` (`?build=1`). |
 | `tools/serve.ps1` | A local dev server. It needs no Node or Python; localhost counts as secure for the camera. |
 
